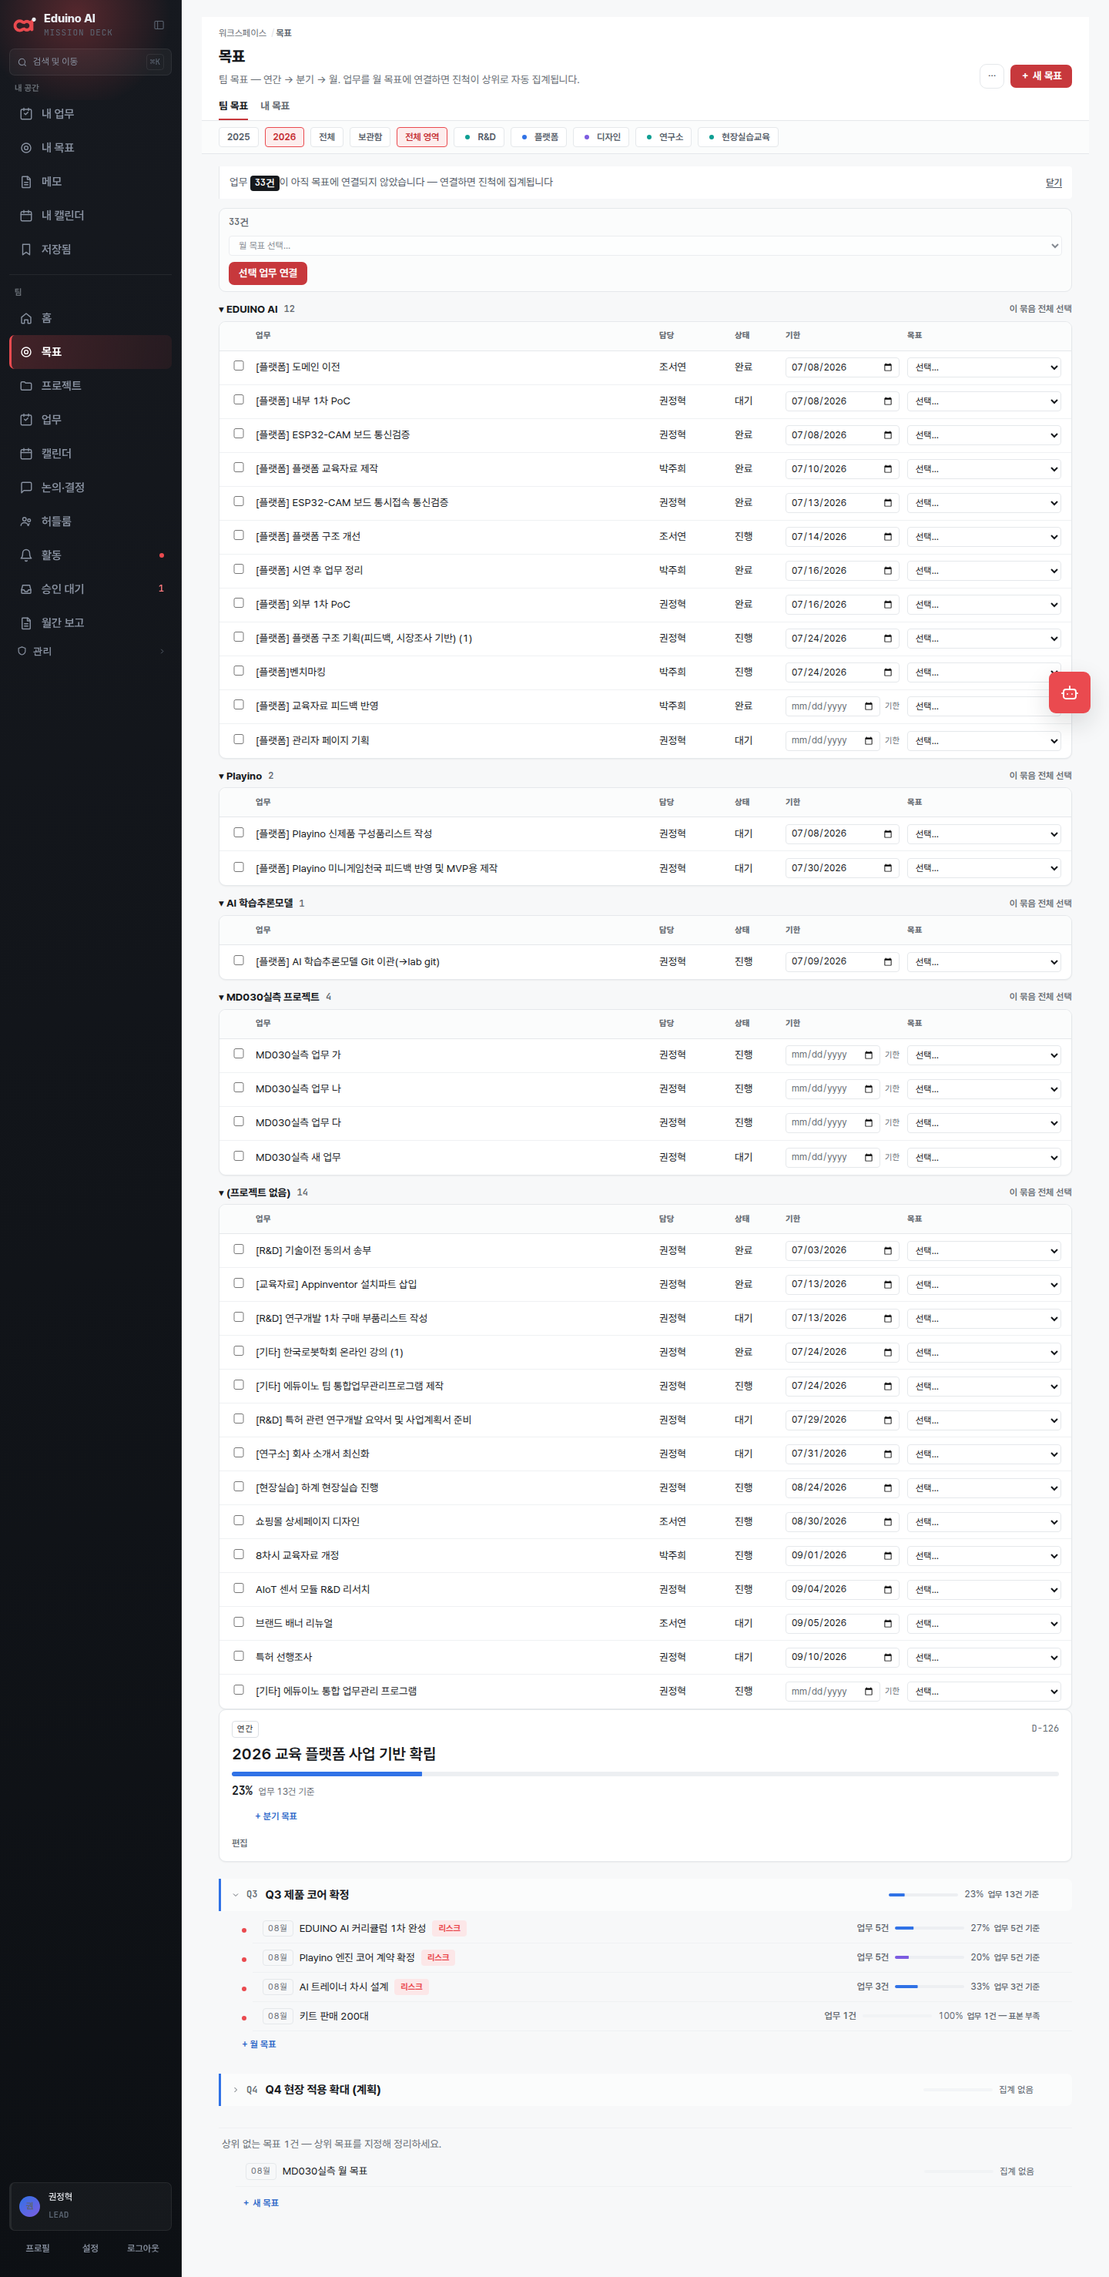
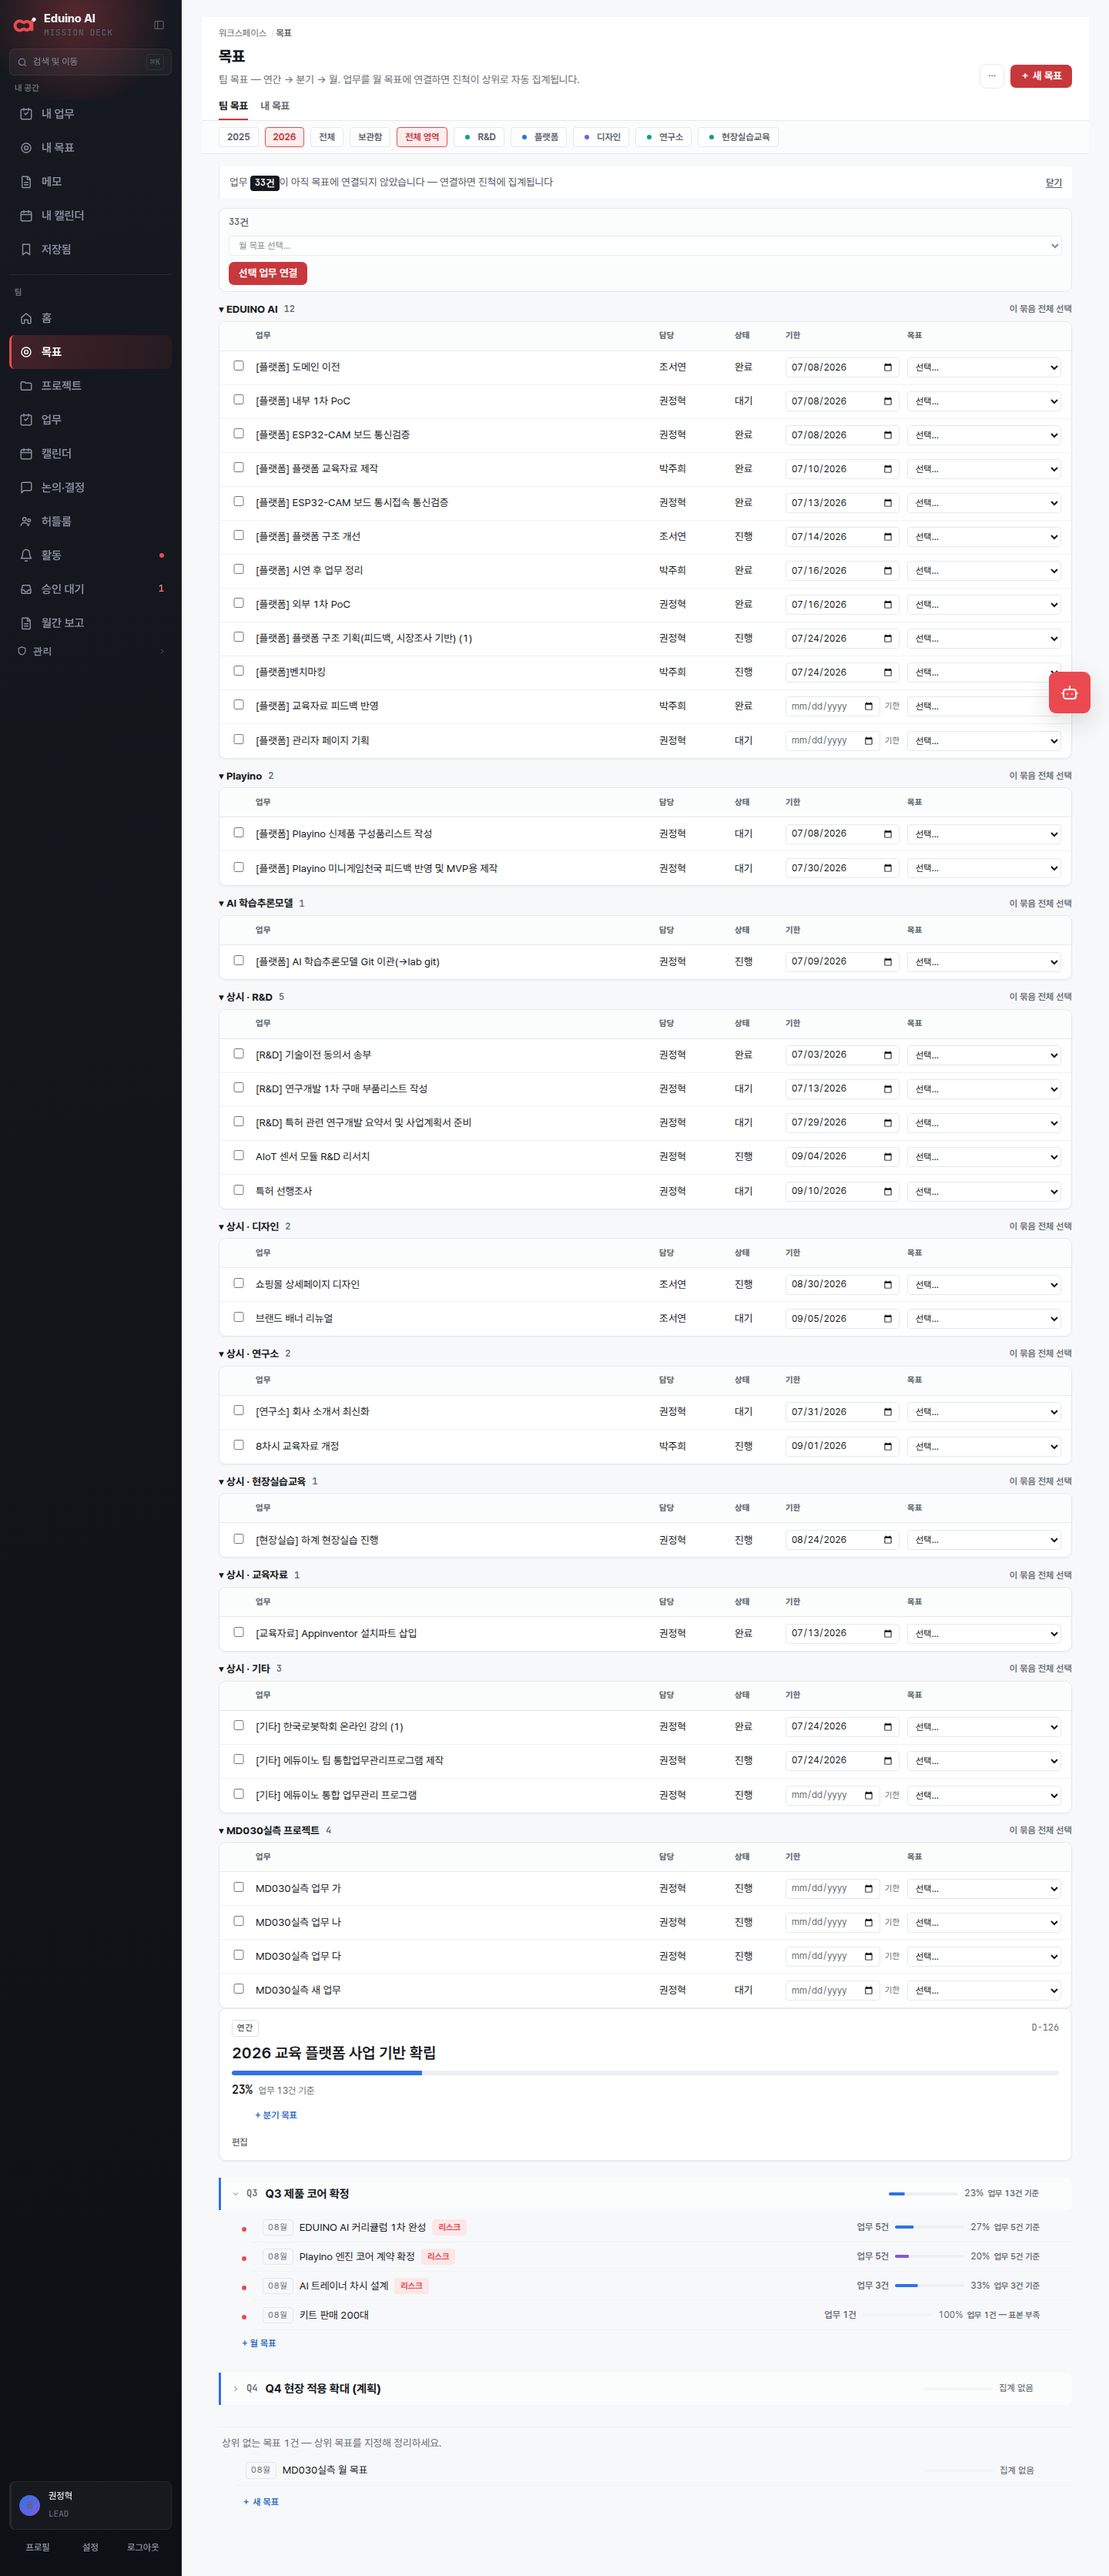
MD-P-2026-032 §A 배치 ③ — 프로젝트 없는 업무를 상시로
db/migrations/0031_orphan_tasks_to_standing.sql

추정은 실행하지 않는다
----------------------
A3 표의 「추정 프로젝트」 열을 **쓰지 않았다.** 추정만으로 프로젝트와 영역 둘을
한 번에 바꾸면 되돌리기 어렵고, 틀렸을 때 어디까지 되돌려야 하는지가 흐려진다.
**전부 자기 영역의 상시 프로젝트로** 보냈다. 그 뒤 사람이 화면에서 옮긴다 —
§B 가 그 이동을 3초로 만든다.

건수도 조건에 안 넣었다. 로컬 19건 · 지시서 20건이고 이 마이그레이션은
프로덕션에서 돈다. 사후 확인에서 **「프로젝트 없는 활성 업무 = 0」** 만 본다.

절차
----
② 스냅샷  프로젝트 없는 활성 업무 **19건** (id 16~44)
          영역 분포 1:5 2:3 3:1 4:3 5:3 6:1 7:3
③ 실행    마이그레이션 러너. 적용 1건
④ 사후    **프로젝트 없는 활성 업무 = 0**
          상시 · R&D 5 · 플랫폼 3 · 교육자료 1 · 디자인 3 · 연구소 3 ·
          현장실습교육 1 · 기타 3  (합 19)
          **영역 분포 1:5 2:3 3:1 4:3 5:3 6:1 7:3 — before 와 동일**
          업무 영역 ≠ 프로젝트 영역 인 행 = 0 (trg_task_area_match 안 건드림)
          goal_task 14행 그대로 · 상시 중 goal_id 있는 것 0

회귀: h2 5/5 · component-reuse 4/4 · rail 10/10 · status-assignee 9/9 ·
listquery 20/20 · bar-minwidth 5/5 · goal-link-level 7/7 · goal-link 21/21 ·
checker-audit 통과 · tsc 통과.

A3 표를 한 번 덮어썼다가 되돌렸다
---------------------------------
실행 뒤 스크립트를 다시 돌렸더니 0건짜리 표가 됐다. 스크립트가 틀린 게 아니라
**그 표의 값이 옮기기 전의 모습에 있었다.** 배치 ① 커밋에서 복원하고
파일과 스크립트 **양쪽에** 「다시 돌려 덮어쓰지 말 것」을 적었다.

백로그 3건
----------
B-25 task.project_id NOT NULL — 한 달 뒤 판단. 생성 경로 전수 확인이 선행.
B-26 영역 상태가 실제 쓰임과 어긋남 — 교육자료가 link_only, 기타가 비활성인데
     둘 다 업무가 살아 있다. 프로덕션 조회 후 판단.
B-27 **프로젝트가 10개가 됐다** — §B2 의 「여덟 개」 문턱을 이미 넘었다.
     상시 7개가 화면에서 버튼 하나로 접히면 4개이므로 안 넘는다.
     §B 착수 시 **문턱이 무엇을 세는지**(행 수 vs 버튼 수) 정하고 코드에 함께 적을 것.

§G 3건 — 개수를 적지 말고 SQL 이 세게 한다 · 제약을 걸었으면 막히는 것을 본다 ·
[…]

diff --git a/docs/BACKLOG.md b/docs/BACKLOG.md
@@ -604,3 +604,72 @@ HTML 규격상 `<button>` 안에 `<button>` 은 올 수 없다. 브라우저는 
 **지금 합치지 않았다.** 렌즈 통합은 §D 판단이고, 겹침의 크기(무엇이 타임라인에만 있는가)를
 먼저 재야 한다. 검사기 허용 목록에 `⚠ §D 통합 후보`로 이유를 적어 두었으므로
 다음 사람이 「이미 넷이나 있으니 하나 더」로 읽지는 않는다.
+
+---
+
+## B-25. `task.project_id` 를 NOT NULL 로 — 한 달 뒤 판단
+
+**지금.** MD-P-2026-032 §A3 에서 프로젝트 없는 업무를 전부 상시 프로젝트로 옮겼다
+(로컬 19건 → 0건). 그래도 컬럼은 **NULL 허용 그대로** 뒀다.
+
+**왜 지금 안 바꾸나.** §B 가 등록 경로를 다시 짠다. 경로 하나가 프로젝트를 안 넣으면
+NOT NULL 은 **500** 을 낸다. 그때는 「업무를 못 만든다」가 된다.
+프로젝트 없이 남는 편이 낫다 — 목록에는 보이고 나중에 옮길 수 있다.
+
+**바꿀 때 확인할 것.**
+1. `task` 생성 경로 전수 — API · 인라인 한 줄 등록 · 모달 · 에이전트 제안 · 시드.
+   **하나라도 프로젝트를 안 넣는 경로가 있으면 안 된다.**
+2. 한 달간 `project_id IS NULL` 인 행이 새로 생겼는지 — 0이어야 한다.
+3. 0이 아니면 **어느 경로가 만들었는지** 먼저 찾는다. NOT NULL 은 그 뒤다.
+
+---
+
+## B-26. 영역 상태(`kind` · `is_active`)가 실제 쓰임과 어긋나 있다
+
+**로컬 실측** (2026-08-27, `docs/audit/032/A3-귀속대상.md`).
+
+| 영역 | kind | is_active | 활성 업무 |
+| --- | --- | --- | --- |
+| 교육자료 | **link_only** | 활성 | 1 |
+| 기타 | workspace | **false** | 3 |
+
+- **교육자료가 `link_only`** 인데 §C 에서 교육자료를 **메인 영역**으로 확정했다.
+  근거는 「EDUINO AI 커리큘럼」이 돌고 있다는 것이었고, 커리큘럼이 곧 교육자료다.
+  **「작업 공간이 없다」는 설정이 낡았다.**
+- **기타가 `is_active = false`** 인데 업무 3건이 살아 있고 화면 필터 칩 줄에는 「기타」가
+  나온다. 둘 중 하나가 틀렸다.
+
+**지금 고치지 않았다.** 로컬을 다시 세운 시드라 프로덕션과 다를 수 있다.
+§A2 의 상시 프로젝트는 **영역 상태와 무관하게** 「활성 업무가 있는 영역」 규칙으로
+만들었으므로 이 어긋남이 §A 를 막지는 않았다.
+
+**할 일.** 프로덕션에서 같은 조회를 하고 표로 낸다 — 영역 행의 `kind` · `is_active` ·
+그 영역의 활성 업무 수. 그것을 보고 정한다.
+
+```sql
+SELECT a.id, a.name, a.kind, a.is_active,
+       count(t.id) FILTER (WHERE t.is_active) AS 활성업무
+  FROM area a LEFT JOIN task t ON t.area_id = a.id
+ GROUP BY a.id, a.name, a.kind, a.is_active, a.sort_order
+ ORDER BY a.sort_order, a.id;
+```
+
+---
+
+## B-27. 프로젝트가 열 개가 됐다 — §B2 의 「여덟 개」 문턱을 이미 넘었다
+
+**실측** (2026-08-27, §A2 직후). 활성 프로젝트 **10개** — `goal` 3 · `standing` 7.
+
+MD-P-2026-032 §B2 는 이렇게 적었다.
+
+> 프로젝트 — **버튼 줄. 단일 선택 토글.**
+> 지금 프로젝트가 넷이라 버튼으로 충분하다.
+> **여덟 개를 넘으면** 검색형 콤보(`ProjectCombo` 재사용)로 바꾼다.
+
+§A2 가 상시 프로젝트 7개를 만들면서 **문턱을 이미 넘겼다.**
+다만 §B2 는 「상시 버튼은 **내 영역의 상시 프로젝트**를 뜻한다. 라벨은 그냥 `상시`」
+라고도 적었다 — 상시 7개가 화면에서는 **버튼 하나**로 접힌다면 노출되는 것은
+`goal` 3개 + `상시` 1개 = **4개**이고 문턱을 안 넘는다.
+
+**§B 착수 시 정할 것.** 문턱을 세는 대상이 「프로젝트 행 수」인지
+「화면에 뜨는 버튼 수」인지. 코드에 문턱을 적을 때 **무엇을 세는지 함께 적는다.**

diff --git a/docs/design/README.md b/docs/design/README.md
@@ -1999,6 +1999,48 @@ OK   자기점검   선택자 .hm-rail=1 · .rl-blk=3 · .rl-h h2=3 · .hm-main=
 제품에도 같은 규칙이 이미 있다 — `MIN_SAMPLE = 3`, 「업무 2건 — 표본 부족」.
 **검사기도 자기가 낸 비율에 같은 잣대를 대야 한다.**
 
+## 개수를 적지 말고 **SQL 이 세게 한다** (§G · MD-P-2026-032 §A2)
+
+「활성 영역은 일곱 개니까 일곱 개를 만든다」로 시작했다가 멈췄다.
+그 일곱은 **어느 시점의 로컬 스냅샷**이고, 프로덕션 구성은 다를 수 있으며 앞으로도 바뀐다.
+
+숫자 대신 **규칙**을 적었다.
+
+    WHERE EXISTS (SELECT 1 FROM task t WHERE t.area_id = a.id AND t.is_active = true)
+
+> **손으로 나열한 목록은 스키마가 늘 때 낡는다**의 데이터 판이다.
+> 개수는 코드에도 SQL 에도 적지 않는다. **몇 개가 만들어졌는지는 실행 결과로 확인한다.**
+
+실측에서도 그대로였다 — 규칙이 7개를 만들었고, 그중 둘(`link_only` 영역 · 비활성 영역)은
+「활성 workspace 다섯 개」로 셌으면 빠졌을 곳이다. 그 둘에 업무 4건이 살아 있었다.
+**업무가 있으면 그릇이 있어야 한다.** 개수를 셌으면 그 4건이 갈 곳을 잃었다.
+
+## 제약을 걸었으면 **막히는 것**을 본다 (§G · MD-P-2026-032 §A1)
+
+`CHECK` 두 개를 넣고 사후 확인에서 `pg_constraint` 를 조회해 「둘 다 있다」를 봤다.
+그것만으로는 부족하다 — **있는 것과 막는 것은 다르다.**
+
+롤백 트랜잭션 안에서 **위반을 실제로 시도했다.**
+
+    type='zzz'                → violates check constraint "project_type_check"
+    standing + goal_id=1      → violates check constraint "project_standing_no_goal"
+
+부재 단언에 짝을 붙이는 것과 같은 장치다. 「제약이 있다」는 이름 조회로 참이 되고,
+이름이 같은 채로 조건이 틀려 있어도 통과한다.
+
+## 조사 스냅샷은 **다시 생성하면 사라진다** (§G · MD-P-2026-032 §A3)
+
+`A3-귀속대상.md` 는 「프로젝트 없는 업무 19건」의 표다.
+마이그레이션을 실행한 뒤 스크립트를 다시 돌렸더니 **0건짜리 표**가 됐다.
+스크립트가 틀린 게 아니다 — 19건이 이미 옮겨졌으니 0이 맞다.
+**그런데 그 표의 값은 옮기기 전의 모습에 있었다.**
+
+> **실행으로 사라지는 조사 결과는 실행 전에 고정하고, 파일과 스크립트 양쪽에
+> 「다시 돌려 덮어쓰지 말 것」을 적는다.**
+
+파일에만 적으면 다음 사람이 스크립트를 먼저 본다. 스크립트에만 적으면 파일을 열어 본
+사람이 최신인 줄 안다. 양쪽에 적는다.
+
 ## 마이그레이션은 제출 전에 **롤백 트랜잭션으로 한 번 굴린다** (§G · MD-P-2026-032 §A)
 
 「SQL 은 실행 전에 제출한다」를 지키면서도 그 SQL 이 **도는지는 확인할 수 있다.**

diff --git a/docs/audit/032/A3-귀속대상.md b/docs/audit/032/A3-귀속대상.md
@@ -2,6 +2,11 @@
 
 프로젝트 없는 활성 업무 **19건**. 로컬 시드 기준.
 
+> ⚠ **이 표는 마이그레이션 직전(배치 ③ 실행 전)의 스냅샷이다. 다시 생성하지 말 것.**
+> 지금 다시 돌리면 0건이 나온다 — 19건 전부 자기 영역의 상시 프로젝트로 갔기 때문이다.
+> 이 표의 값은 **옮겨진 뒤**에 있다: 「추정 프로젝트」와 「따르면 영역도 바뀐다」를 보고
+> §B 완료 후 사람이 화면에서 옮길 때 쓴다. 그때 필요한 것이 **옮기기 전의 모습**이다.
+
 > **이 표는 실행 목록이 아니라 §B 완료 후 사람이 보고 판단할 목록이다.**
 >
 > 마이그레이션(배치 ③)은 **19건 전부를 자기 영역의 상시 프로젝트로** 보낸다.
